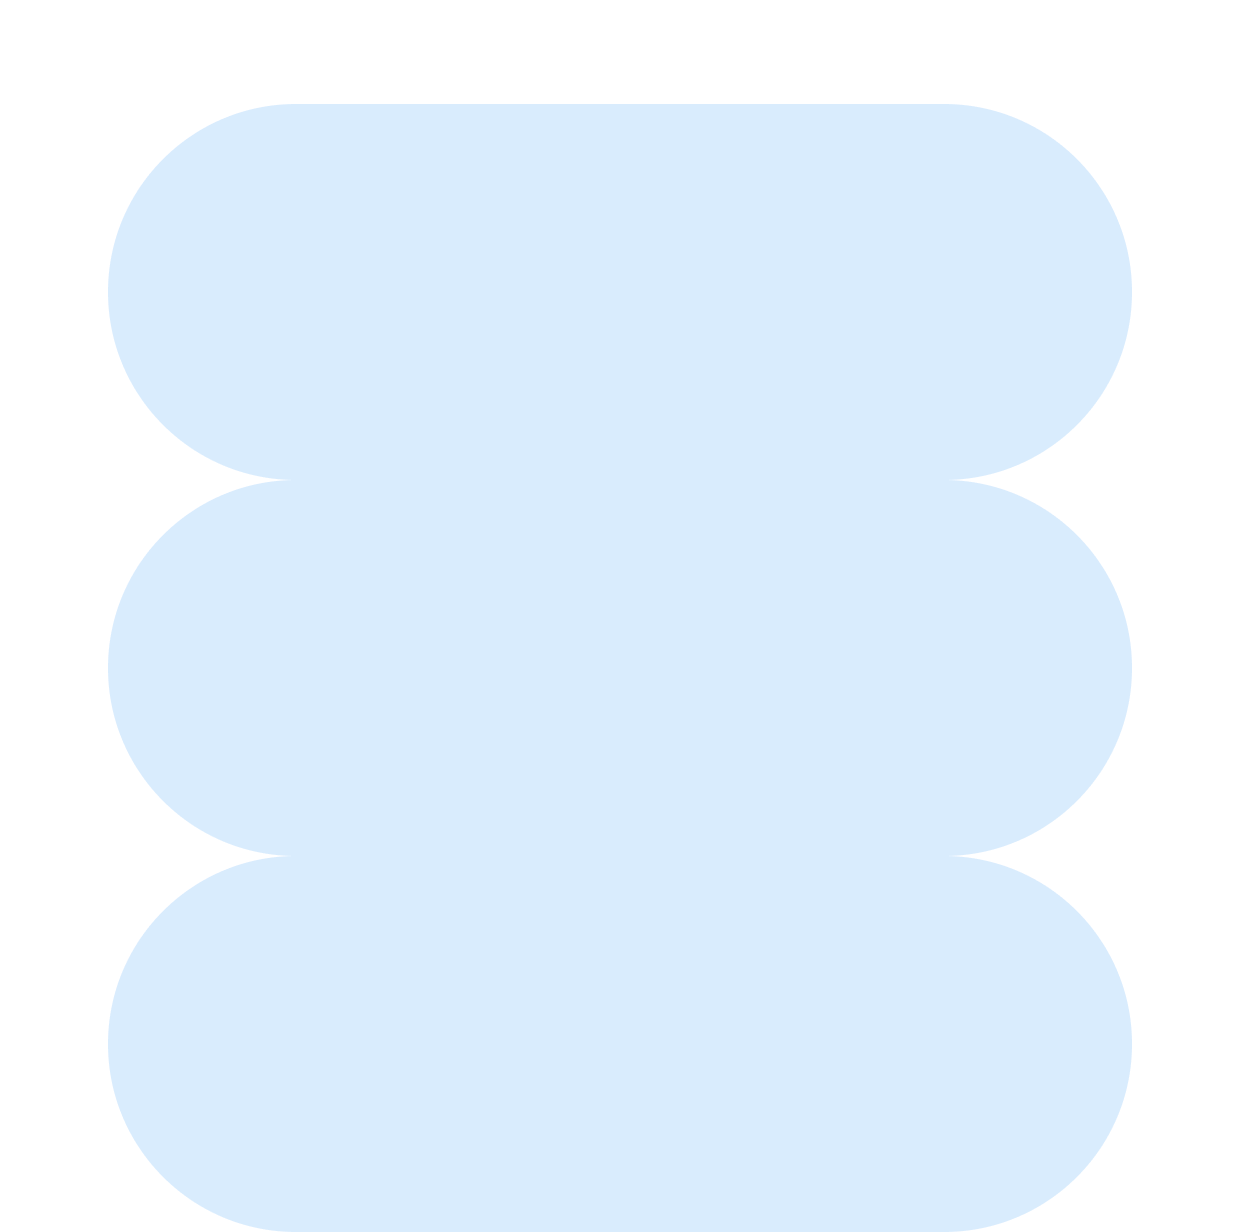
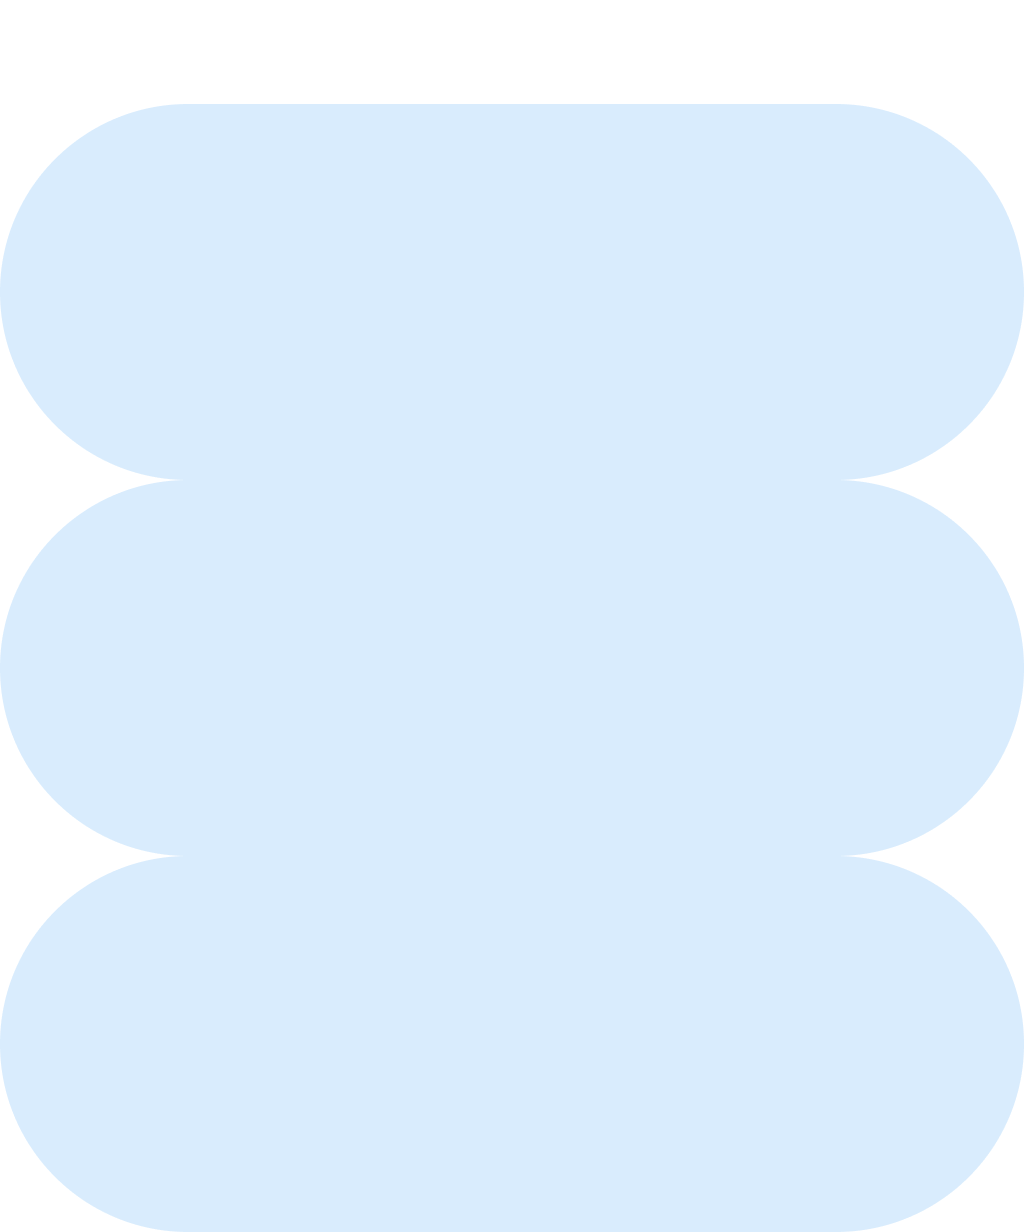
fix: design bugs

Changed region(s): [[0.7812, 0.0617, 1.0, 1.0], [0.0, 0.0617, 0.2188, 1.0]]

diff --git a/components/homepage/Hero/Hero.module.scss b/components/homepage/Hero/Hero.module.scss
@@ -3,7 +3,7 @@
 .imageWrapper {
   display: flex;
   width: 100%;
-  justify-content: center;
+  justify-content: flex-end;
 
   & .inner {
     display: flex;
@@ -21,7 +21,7 @@
     left: 50%;
     bottom: 0px;
     transform: translateX(-50%);
-    width: 60%;
+    width: 100%;
     height: 100%;
     z-index: 4;
   }
@@ -49,7 +49,7 @@
 
   & .leftCenter {
     position: absolute;
-    top: 50%;
+    top: 40%;
     left: -5%;
     width: 180px;
     height: 92px;
@@ -73,7 +73,7 @@
   & .bottomRight {
     position: absolute;
     bottom: 10%;
-    right: 5%;
+    right: 0%;
     width: 248px;
     height: 84px;
     z-index: 6;
@@ -88,27 +88,6 @@
       width: 160px;
       height: 52px;
     }
-  }
-
-  & .lineBottom {
-    width: 100%;
-    height: 100%;
-    position: absolute;
-    left: -8px;
-    bottom: 0px;
-    z-index: 5;
-    overflow: hidden;
-  }
-
-  & .lineTop {
-    width: 100%;
-    height: 100%;
-    position: absolute;
-    z-index: 3;
-    left: -8px;
-    bottom: 0px;
-    overflow: hidden;
-    top: 0px;
   }
 }
 
@@ -147,6 +126,7 @@
   border-top-right-radius: 0px !important;
   border-bottom-right-radius: 0px !important;
   border-right: 0px;
+  background-color: var(--input-bg);
 
   @media (max-width: $bp-sm) {
     border-right: 2px solid var(--wh-black);

diff --git a/components/homepage/Hero/Hero.tsx b/components/homepage/Hero/Hero.tsx
@@ -1,8 +1,6 @@
 import HeroRightBackground from 'assets/images/homepage/landing/blue-bg.png';
 import HeroRightBottomRight from 'assets/images/homepage/landing/bottom-right.png';
 import HeroRightLeftCenter from 'assets/images/homepage/landing/left-center.png';
-import HeroRightLineBottom from 'assets/images/homepage/landing/line-bottom.png';
-import HeroRightLineTop from 'assets/images/homepage/landing/line-top.png';
 import HeroRightModelfrom from 'assets/images/homepage/landing/model.png';
 import HeroRightTopRight from 'assets/images/homepage/landing/top-right.png';
 import { useDefaultGap } from 'hooks';
@@ -69,18 +67,6 @@ const HeroRight = () => {
           className={clsnm(styles.bottomRight, !mainImageLoaded && 'd-none')}
           src={HeroRightBottomRight}
           alt="Hero bottom right"
-        />
-        <Image
-          loading="lazy"
-          className={clsnm(styles.lineBottom, !mainImageLoaded && 'd-none')}
-          src={HeroRightLineBottom}
-          alt="Hero line bottom"
-        />
-        <Image
-          loading="lazy"
-          className={clsnm(styles.lineTop, !mainImageLoaded && 'd-none')}
-          src={HeroRightLineTop}
-          alt="Hero line top"
         />
       </div>
     </div>

diff --git a/components/homepage/Integrations/Integrations.module.scss b/components/homepage/Integrations/Integrations.module.scss
@@ -17,7 +17,6 @@
 
 .left {
   justify-content: center;
-  padding-right: 96px;
 
   @media (max-width: $bp-md) {
     padding-right: 60px;
@@ -31,7 +30,7 @@
 .imageWrapper {
   display: flex;
   width: 100%;
-  justify-content: center;
+  justify-content: flex-end;
 
   & .inner {
     display: flex;
@@ -43,6 +42,18 @@
     height: 100%;
     object-fit: contain;
   }
+
+  @media (max-width: $bp-sm) {
+    justify-content: center;
+  }
+}
+
+.right {
+  align-items: flex-end;
+
+  @media (max-width: $bp-sm) {
+    justify-content: center;
+  }
 }
 
 .bg {
@@ -51,11 +62,12 @@
   padding-left: 80px;
   padding-right: 80px;
   margin-top: 20px;
-  margin-bottom: 80px;
+  margin-bottom: 120px;
 
   @media (max-width: $bp-sm) {
     padding-left: 20px;
     padding-right: 20px;
     border-radius: 0px;
+    margin-bottom: 60px;
   }
 }

diff --git a/components/Footer/Footer.tsx b/components/Footer/Footer.tsx
@@ -14,13 +14,13 @@ interface Props extends ComponentPropsWithoutRef<'div'> {
   include?: boolean;
 }
 
-export const Footer = ({ include = true }: Props) => {
+export const Footer = ({ include = true, className, ...props }: Props) => {
   const router = useRouter();
 
   return (
     <>
       {include && (
-        <div className={styles.topWrapper}>
+        <div {...props} className={clsnm(styles.topWrapper, className)}>
           <Container width={588}>
             <Header className={styles.topHeader} as="h4" inheritStyles="h1">
               Get started now!

diff --git a/ui/Button/Button.module.scss b/ui/Button/Button.module.scss
@@ -18,7 +18,7 @@
     }
 
     &:focus {
-      box-shadow: 0px 0px 0px 2px var(--wh-blue-10);
+      box-shadow: 0px 0px 0px 3px var(--wh-blue-10);
     }
   }
 
@@ -34,7 +34,7 @@
     }
 
     &:focus {
-      box-shadow: 0px 0px 0px 2px var(--wh-blue-10);
+      box-shadow: 0px 0px 0px 3px var(--wh-blue-10);
     }
   }
 
@@ -50,7 +50,7 @@
     }
 
     &:focus {
-      box-shadow: 0px 0px 0px 2px var(--wh-blue-10);
+      box-shadow: 0px 0px 0px 3px var(--wh-blue-10);
     }
   }
 

diff --git a/components/DualGrid/DualGrid.tsx b/components/DualGrid/DualGrid.tsx
@@ -71,8 +71,8 @@ export const DualGrid = ({
     return `${pY}px`;
   }, [small, pY]);
 
-  const [leftViewRef, inViewLeft] = useInView({ threshold: 0.5 });
-  const [rightViewRef, inViewRight] = useInView({ threshold: 0.5 });
+  const [leftViewRef, inViewLeft] = useInView({ threshold: 0.25 });
+  const [rightViewRef, inViewRight] = useInView({ threshold: 0.25 });
 
   const leftRef = useRef<HTMLDivElement>(null);
   const rightRef = useRef<HTMLDivElement>(null);

diff --git a/styles/colors.scss b/styles/colors.scss
@@ -25,7 +25,7 @@ html.light {
   --flat-button-border: transparent;
   --flat-button-color: var(--wh-black);
 
-  --input-bg: transparent;
+  --input-bg: var(--wh-white);
   --input-bg-hover: rgba(0, 0, 0, 0.01);
   --input-border: var(--wh-black);
   --input-placeholder: var(--wh-steel-70);

diff --git a/components/DualGrid/DualGrid.module.scss b/components/DualGrid/DualGrid.module.scss
@@ -5,10 +5,10 @@
   grid-template-columns: 1fr 1fr;
 
   &.maxHeight {
-    min-height: calc(100vh - var(--navbar-height));
+    min-height: 648px;
 
     @media (min-height: 1000px) {
-      min-height: 800px;
+      min-height: 700px;
     }
   }
 }

diff --git a/components/Features/Features.tsx b/components/Features/Features.tsx
@@ -1,4 +1,4 @@
-import { useEffect, useRef } from 'react';
+import { useRef } from 'react';
 import { useInView } from 'react-intersection-observer';
 import { mergeRefs } from 'react-merge-refs';
 import { FeatureItem } from 'types';

diff --git a/pages/about.tsx b/pages/about.tsx
@@ -31,7 +31,7 @@ export default function About() {
         <Container>
           <Features items={homeData} />
         </Container>
-        <Footer />
+        <Footer className="footer-top" />
       </Layout>
     </>
   );

diff --git a/components/Features/Features.module.scss b/components/Features/Features.module.scss
@@ -29,7 +29,7 @@
   padding: 32px;
   min-height: 260px;
   display: flex;
-  justify-content: center;
+  justify-content: flex-start;
   flex-shrink: 0;
   flex-direction: column;
   background-color: var(--wh-white);

diff --git a/components/inbox/EmailCompose/EmailCompose.tsx b/components/inbox/EmailCompose/EmailCompose.tsx
@@ -16,6 +16,7 @@ export const EmailCompose = () => {
 
   return (
     <DualGrid
+      className={styles.wrapper}
       reverseOnMobile
       paddingY={80}
       rightClassName={styles.right}
